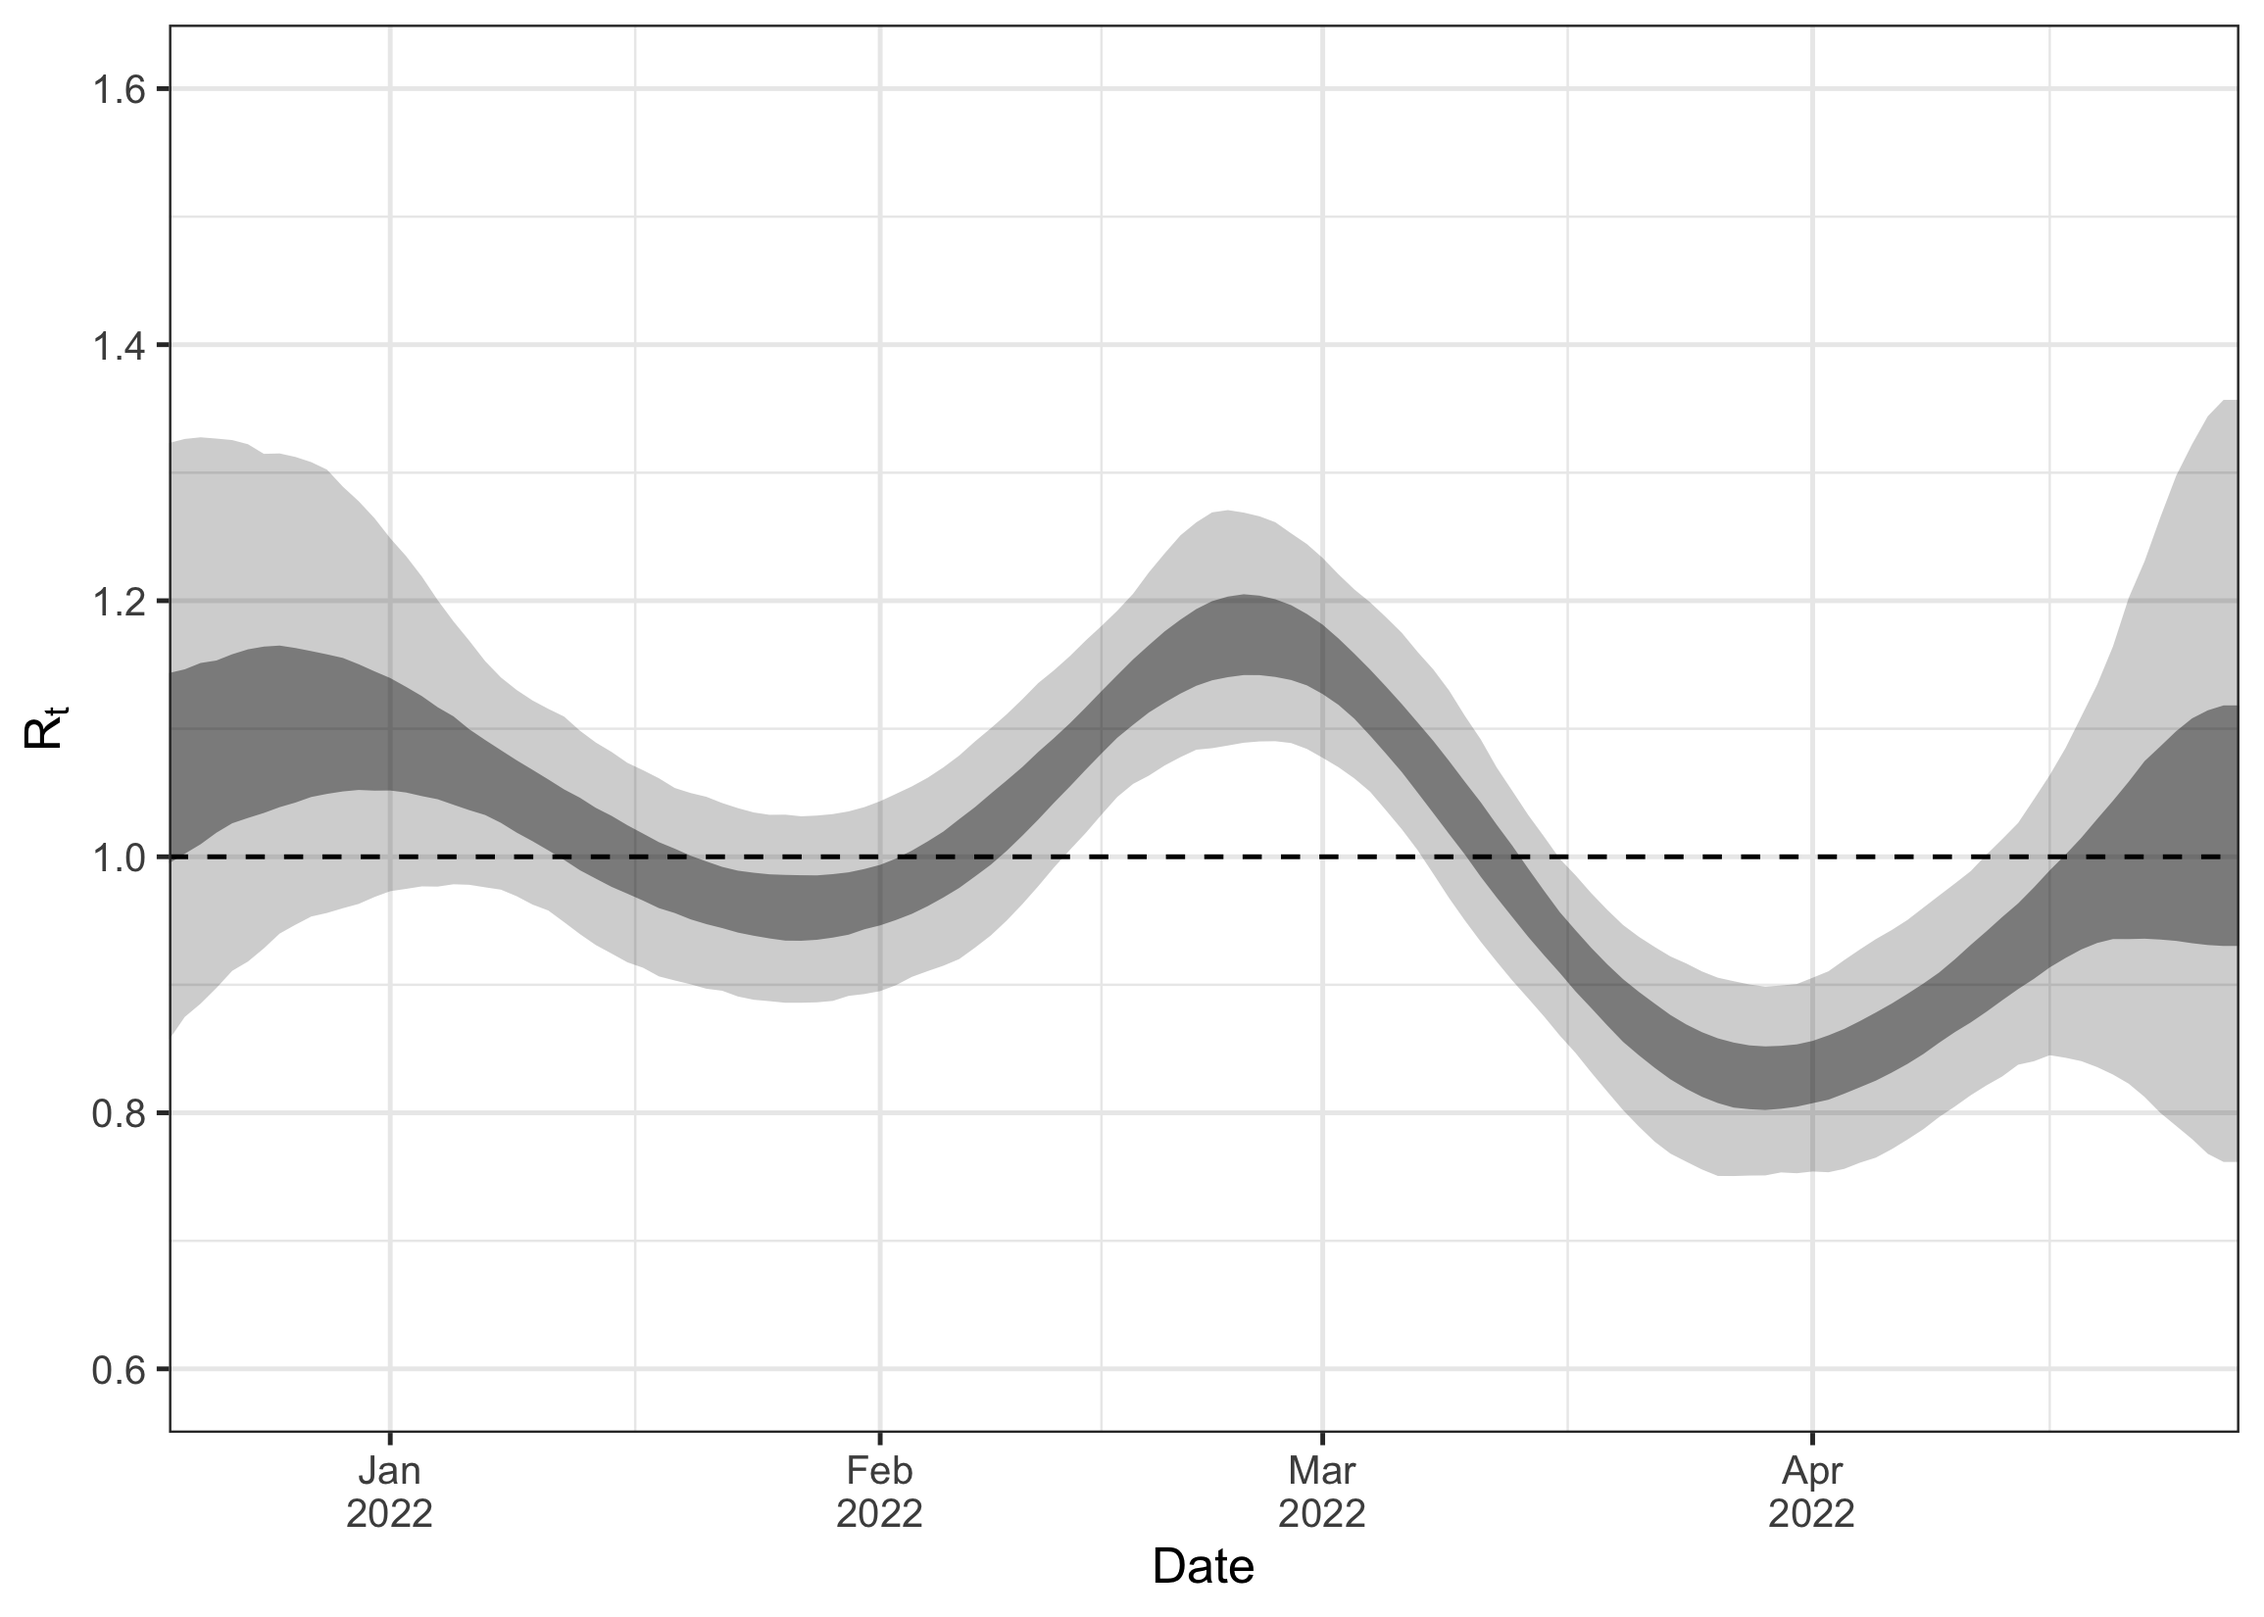
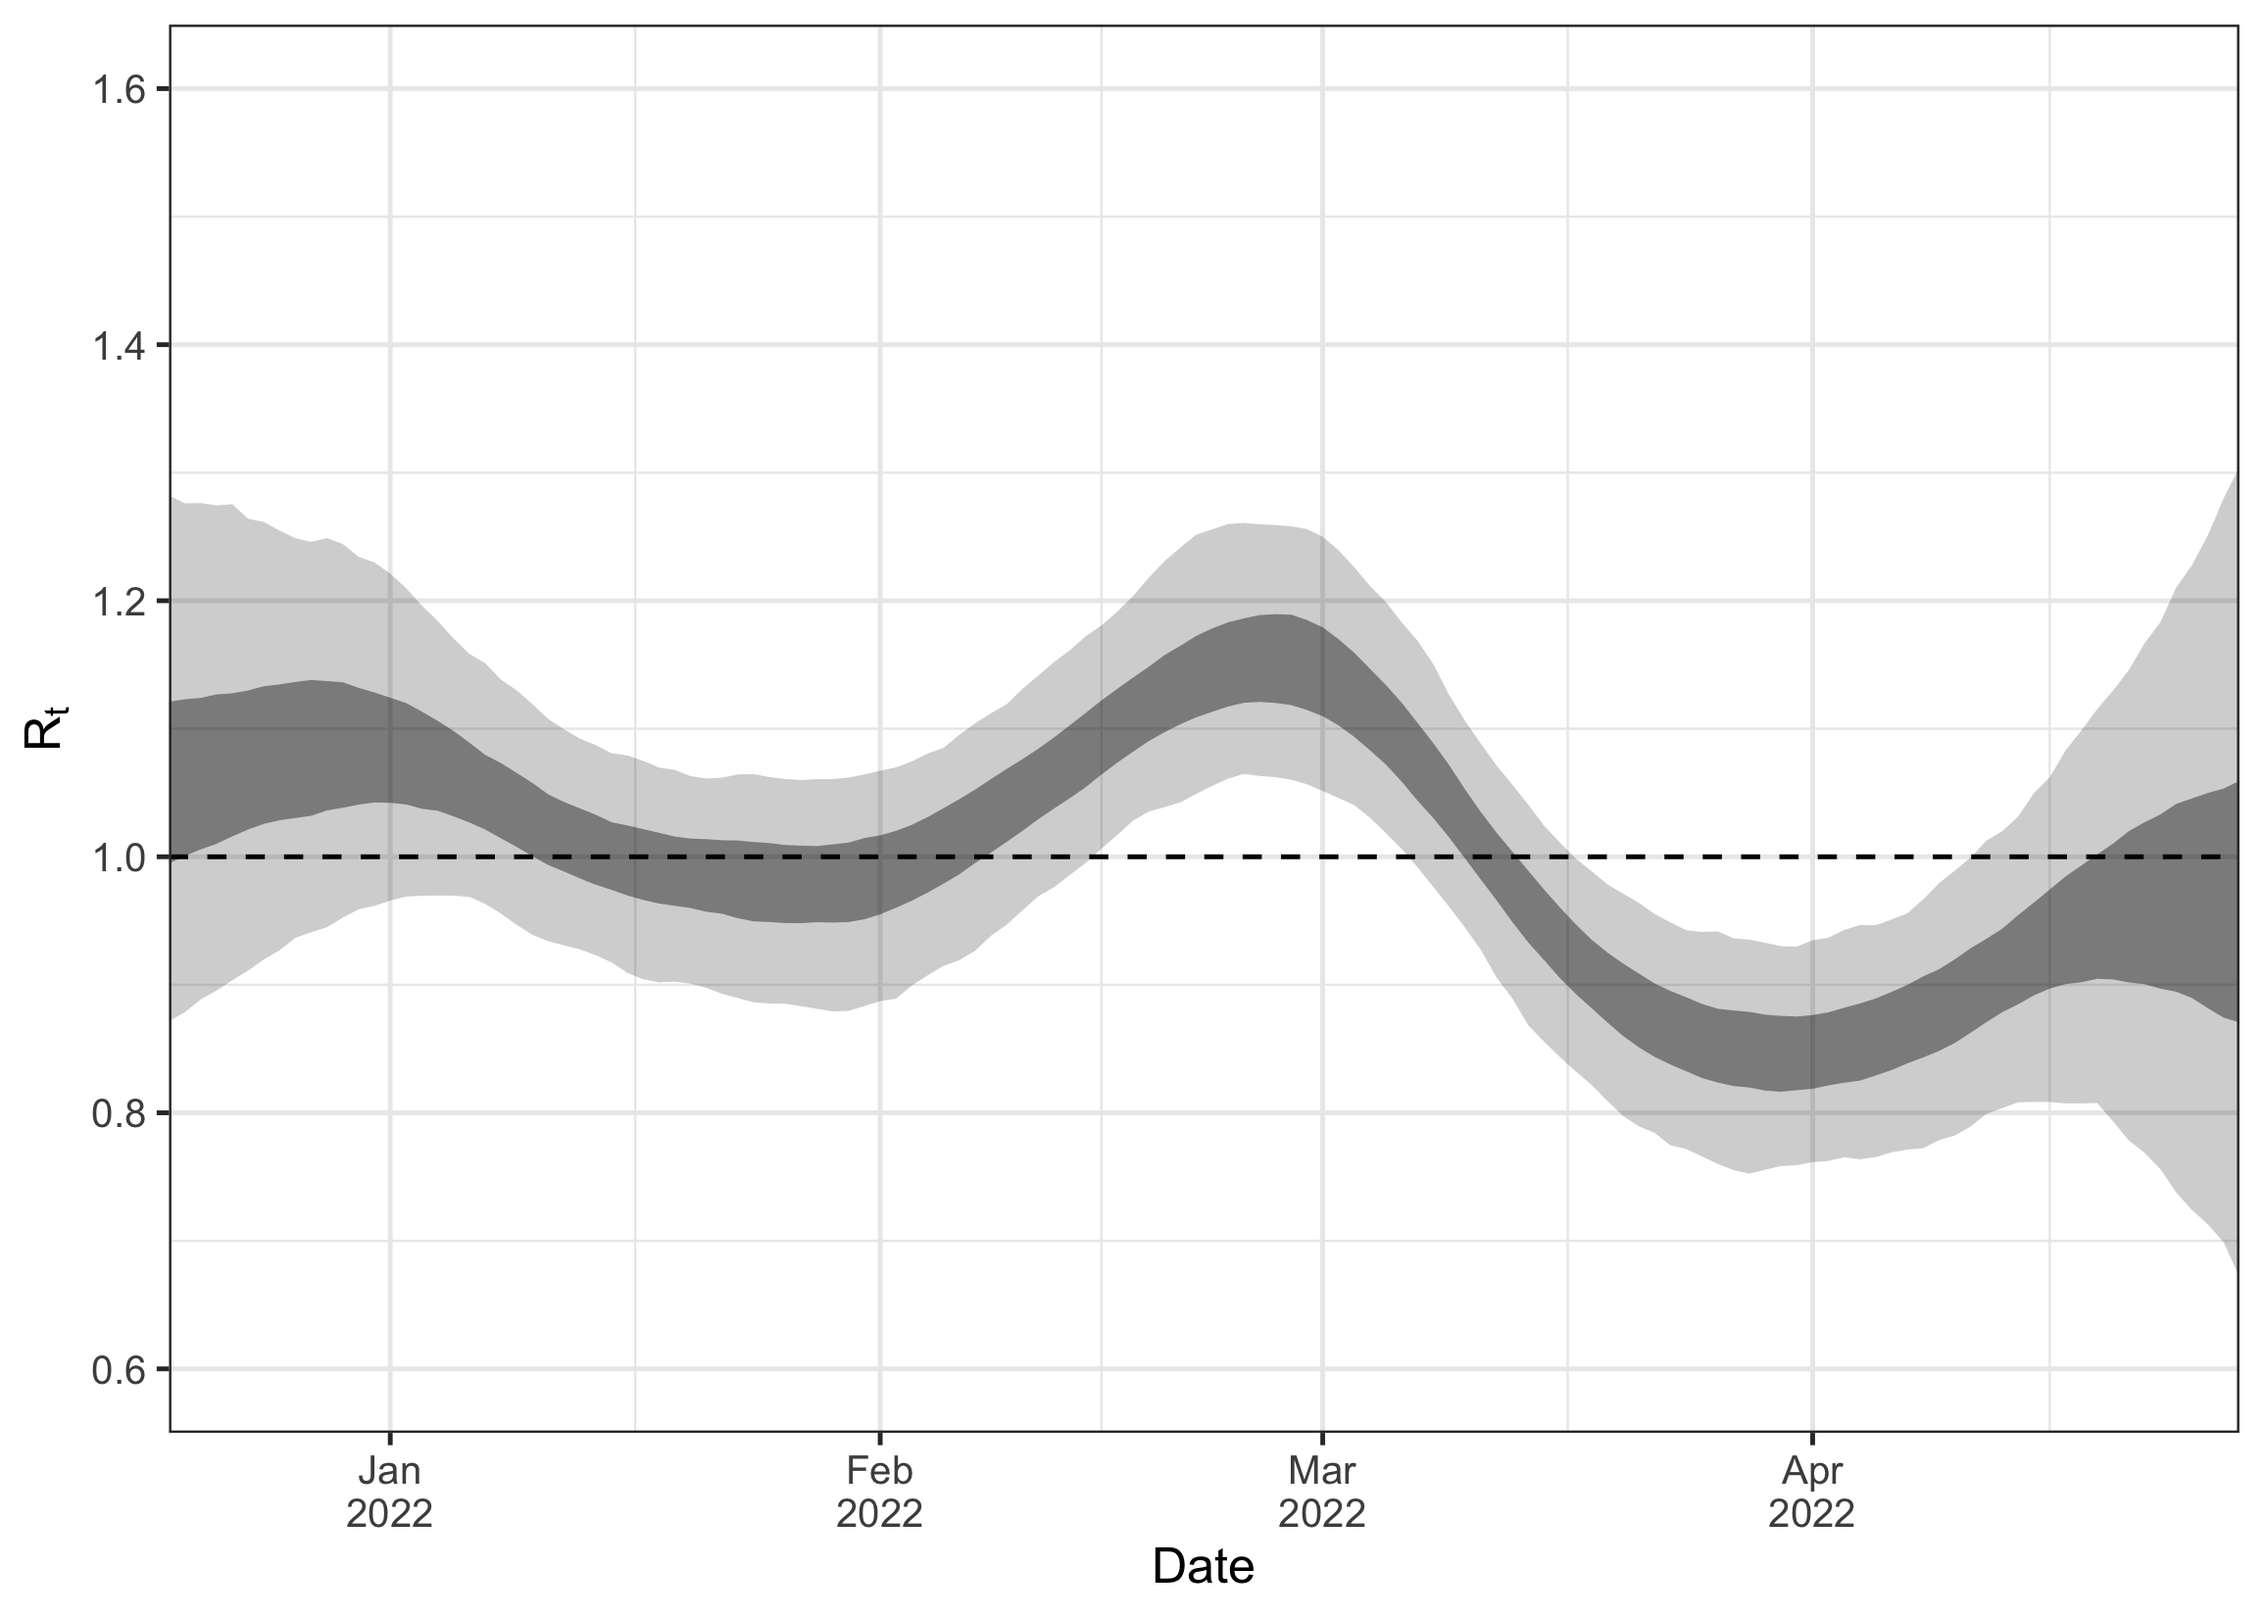
Set R splines as default smoothing approach

diff --git a/README.md b/README.md
@@ -518,7 +518,7 @@ ww_result$job$model
 #> 
 #> infections
 #>  |- generation_dist_assume
-#>  |- R_estimate_smooth_derivative
+#>  |- R_estimate_splines
 #>  |- seeding_estimate_rw
 #>  |- infection_noise_estimate (overdispersion = TRUE)
 ```
@@ -548,12 +548,12 @@ number.
 
 ``` r
 head(ww_result$summary$R, 5)
-#>          date      mean    median lower_0.95 lower_0.5 upper_0.5 upper_0.95
-#> 1: 2021-12-03 0.9854654 0.9914010  0.5086490 0.8570600  1.127522   1.397294
-#> 2: 2021-12-04 0.9866831 0.9927445  0.5164825 0.8594373  1.126350   1.394308
-#> 3: 2021-12-05 0.9886963 0.9934275  0.5263697 0.8632615  1.127323   1.385992
-#> 4: 2021-12-06 0.9916080 0.9967390  0.5437719 0.8680418  1.125373   1.372919
-#> 5: 2021-12-07 0.9954652 1.0036200  0.5665288 0.8738278  1.124315   1.355231
+#>          date     mean   median lower_0.95 lower_0.5 upper_0.5 upper_0.95
+#> 1: 2021-12-03 1.033961 1.036185  0.6736519 0.9383015  1.135603   1.363244
+#> 2: 2021-12-04 1.034428 1.036025  0.6824790 0.9389188  1.132238   1.352063
+#> 3: 2021-12-05 1.035141 1.035805  0.6894310 0.9424300  1.128025   1.337265
+#> 4: 2021-12-06 1.036031 1.037465  0.7101947 0.9459913  1.125225   1.330535
+#> 5: 2021-12-07 1.037028 1.035575  0.7226779 0.9492257  1.123778   1.325589
 #>        type seeding
 #> 1: estimate    TRUE
 #> 2: estimate    TRUE
@@ -571,13 +571,13 @@ each chain:
 ``` r
 ww_result$fitted$diagnostic_summary()
 #> $num_divergent
-#> [1] 0 0 0 0
+#> [1] 0 0 3 2
 #> 
 #> $num_max_treedepth
 #> [1] 0 0 0 0
 #> 
 #> $ebfmi
-#> [1] 0.9028552 0.9395239 1.0738571 0.8592549
+#> [1] 0.8911642 0.9440131 1.0275218 0.9908777
 ```
 
 Finally, the `checksums` attribute gives us several checksums that
@@ -592,7 +592,7 @@ ww_result$checksums
 #> [1] "d86228897b135d42f2390763b0504b70"
 #> 
 #> $input
-#> [1] "c0d0827c0a813dda87d75944aa9011b6"
+#> [1] "1b3ade9eb69f4488767b0e60ca79ef14"
 #> 
 #> $fit_opts
 #> [1] "4f5f052ce14fd6ff0a4eabd438e5f794"
@@ -601,7 +601,7 @@ ww_result$checksums
 #> [1] "e92f83d0ca5d22b3bb5849d62c5412ee"
 #> 
 #> $init
-#> [1] "175e4c7e936709cfa158232010ca2733"
+#> [1] "0250741cfad014f7ace289267fc7762f"
 ```
 
 ## Citing the package
